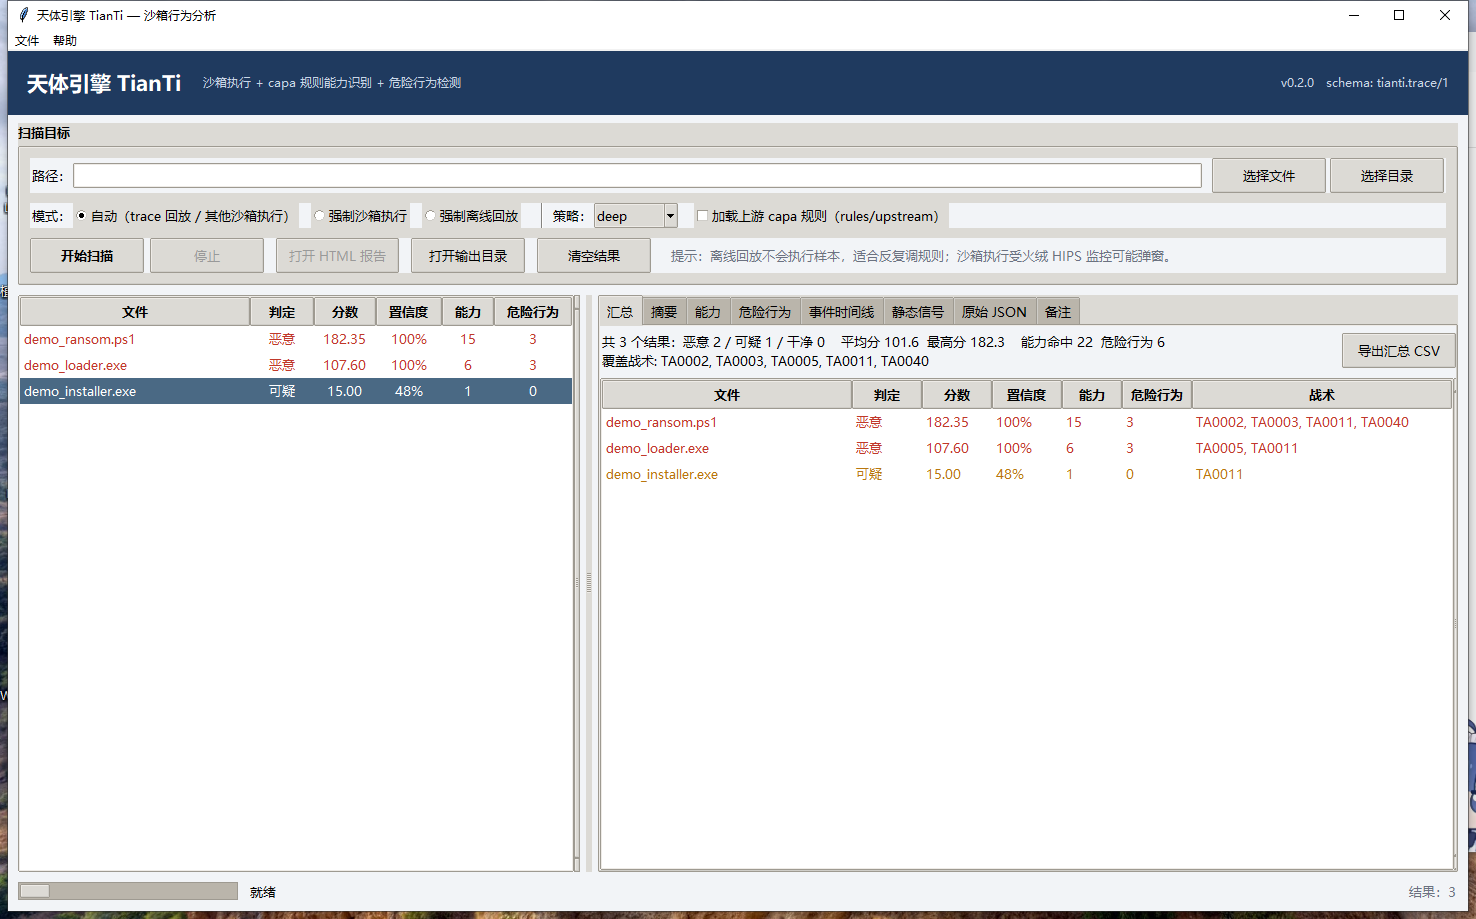
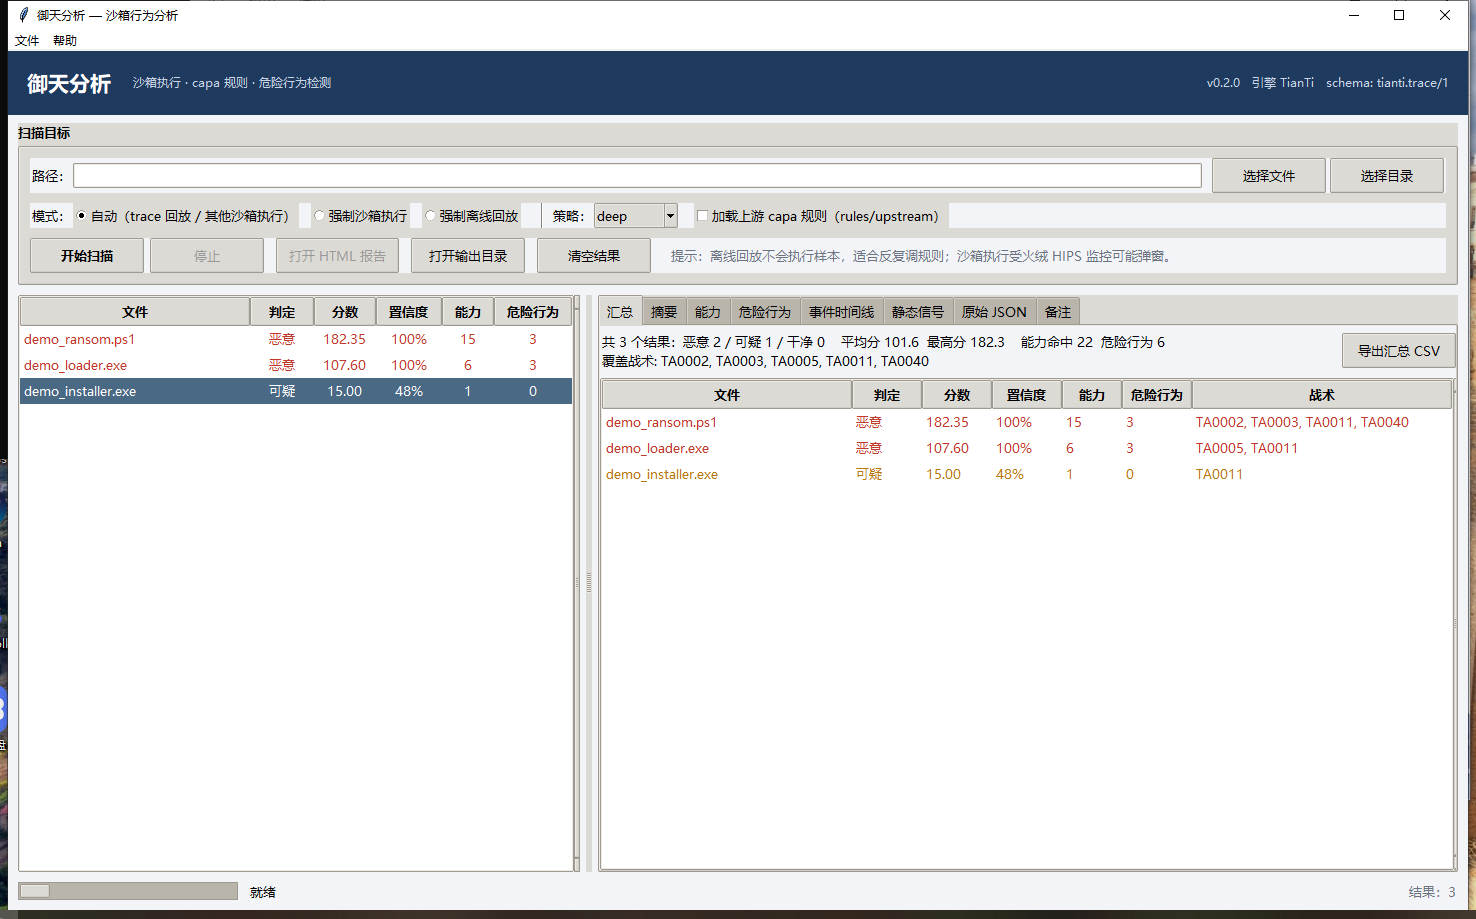
前端更名：御天分析（Yutian Analysis），引擎内核仍为 TianTi；版本 0.2.2

Changed region(s): [[0.0, 0.0, 1.0, 1.0], [0.0, 0.0, 0.3117, 0.6094], [0.8415, 0.0609, 0.8726, 0.0914]]

diff --git a/tianti/gui/app.py b/tianti/gui/app.py
@@ -33,7 +33,9 @@ from ..trace import schema
 from . import format as fmt
 
 MAX_DIR_FILES = 100
-TITLE = "天体引擎 TianTi — 沙箱行为分析"
+APP_NAME = "御天分析"
+APP_SUBTITLE = "沙箱执行 · capa 规则 · 危险行为检测"
+TITLE = f"{APP_NAME} — 沙箱行为分析"
 
 
 class _Cancelled(Exception):
@@ -126,16 +128,16 @@ class TiantiApp:
         header.pack(fill="x")
         header.pack_propagate(False)
         tk.Label(
-            header, text="天体引擎 TianTi", bg=COLORS["header"], fg="white",
+            header, text=APP_NAME, bg=COLORS["header"], fg="white",
             font=("Microsoft YaHei UI", 16, "bold"),
         ).pack(side="left", padx=16, pady=10)
         tk.Label(
             header,
-            text="沙箱执行 + capa 规则能力识别 + 危险行为检测",
+            text=APP_SUBTITLE,
             bg=COLORS["header"], fg="#c9d6e8", font=("Microsoft YaHei UI", 9),
         ).pack(side="left", pady=18)
         tk.Label(
-            header, text=f"v{__version__}   schema: tianti.trace/1",
+            header, text=f"v{__version__}   引擎 TianTi   schema: tianti.trace/1",
             bg=COLORS["header"], fg="#c9d6e8", font=("Microsoft YaHei UI", 9),
         ).pack(side="right", padx=16)
 
@@ -747,9 +749,10 @@ class TiantiApp:
 
     def show_about(self) -> None:
         messagebox.showinfo(
-            "关于天体引擎",
-            "天体引擎 TianTi\n"
-            "沙箱 + capa 规则能力识别 + 危险行为检测\n\n"
+            f"关于{APP_NAME}",
+            f"{APP_NAME}（Yutian Analysis）\n"
+            "沙箱 + capa 规则能力识别 + 危险行为检测\n"
+            f"引擎内核：TianTi v{__version__}\n\n"
             "· 自动模式：trace JSON 离线回放；其他文件走 containment 沙箱\n"
             "· 离线回放不会执行样本，适合反复调规则\n"
             "· 沙箱执行受本机火绒 HIPS 监控可能弹窗（受限令牌/低完整性/断网）\n\n"
@@ -820,7 +823,7 @@ def _safe_stem(name: str) -> str:
 
 
 def main(argv: list[str] | None = None) -> int:
-    parser = argparse.ArgumentParser(prog="tianti gui", description="天体引擎 Tk 桌面前端")
+    parser = argparse.ArgumentParser(prog="tianti gui", description="御天分析（Tk 桌面前端）")
     parser.add_argument("--path", default=None, help="启动时填入的样本/轨迹路径")
     parser.add_argument("--demo", action="store_true", help="加载 golden trace 演示数据")
     parser.add_argument("--trace", default=None, help="配合 --demo 指定 trace 文件")

diff --git a/tianti/cli.py b/tianti/cli.py
@@ -576,7 +576,7 @@ def build_parser() -> argparse.ArgumentParser:
     p_convert.add_argument("--out", default=None, help="输出 trace JSON（默认 out/<report>.trace.json）")
     p_convert.set_defaults(func=cmd_convert_cape)
 
-    p_gui = sub.add_parser("gui", help="启动 Tk 桌面前端")
+    p_gui = sub.add_parser("gui", help="启动御天分析（Tk 桌面前端）")
     p_gui.add_argument("--path", default=None, help="启动时填入的样本/轨迹路径")
     p_gui.add_argument("--demo", action="store_true", help="加载 golden trace 演示数据")
     p_gui.add_argument("--trace", default=None, help="配合 --demo 指定 trace 文件")

diff --git a/tianti/__init__.py b/tianti/__init__.py
@@ -4,6 +4,6 @@
         + 危险行为检测 -> 评分/判定 -> 报告。
 """
 
-__version__ = "0.2.0"
+__version__ = "0.2.2"
 
 __all__ = ["__version__"]

diff --git a/README.md b/README.md
@@ -52,7 +52,7 @@ $PY = "$env:USERPROFILE\.dsh\dsh-runtimes\dsh-primary-runtime\dependencies\pytho
 & $PY -m tianti serve --port 8765
 ```
 
-## 桌面前端（Tk）
+## 御天分析（Tk 桌面前端）
 
 ![GUI](docs/screenshot_gui.png)
 
@@ -62,7 +62,7 @@ $PY = "$env:USERPROFILE\.dsh\dsh-runtimes\dsh-primary-runtime\dependencies\pytho
 & $PY -m tianti gui --smoke         # 无交互自检
 ```
 
-纯标准库 tkinter 实现，复用同一套 pipeline：选择文件/目录 → 自动判断（trace JSON 离线回放 / 其他文件沙箱执行）
+「御天分析」是桌面前端（内核 TianTi，入口 `tianti gui`）。纯标准库 tkinter 实现，复用同一套 pipeline：选择文件/目录 → 自动判断（trace JSON 离线回放 / 其他文件沙箱执行）
 → 结果表 + **批量汇总矩阵**（可导出 CSV）+ 能力/危险行为/时间线/原始 JSON 详情 → 一键生成 HTML 报告。
 扫描可随时「停止」并**强杀当前沙箱进程树**。离线回放不执行样本，也不会触发火绒。
 详见 [docs/GUI.md](docs/GUI.md)。

diff --git a/docs/GUI.md b/docs/GUI.md
@@ -1,5 +1,6 @@
-# Tk 桌面前端（tianti gui）
+# 御天分析（Tk 桌面前端，命令 `tianti gui`）
 
+「御天分析」是引擎的桌面前端（内核仍为 TianTi，命令行入口 `tianti gui`）。
 纯标准库 tkinter/ttk 实现，复用 L5 pipeline（扫描 / 回放 / 规则 / 检测 / 评分 / 报告），
 不在 UI 里重复分析逻辑。零第三方依赖。
 
